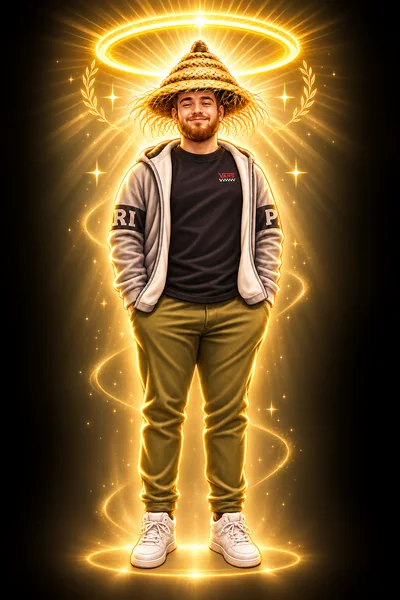
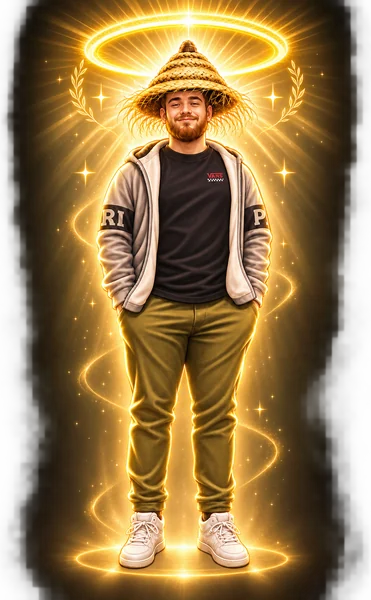
Corri Marf!: Gian trasparente e super canna x2/x3 (#77)
* Corri Marf!: immagini di Gian con la trasparenza

Claude-Session: https://claude.ai/code/session_017AfdJjPRYm7AhKZz7XGFBU

* Corri Marf!: anche la super canna fa x2/x3 con bifase e trifase

Claude-Session: https://claude.ai/code/session_017AfdJjPRYm7AhKZz7XGFBU

* Corri Marf!: l'immagine nella scheda dello shop non viene più tagliata

Claude-Session: https://claude.ai/code/session_017AfdJjPRYm7AhKZz7XGFBU

---------

diff --git a/giochi/corri-marf/index.html b/giochi/corri-marf/index.html
@@ -87,7 +87,8 @@
     #market.aperta .scheda { opacity: 1; transform: none; pointer-events: auto; }
     .scheda .foto { flex: 1; min-height: 0; display: grid; place-items: center; background: radial-gradient(circle at 50% 55%, rgba(228,179,60,.16), transparent 65%);
       box-shadow: inset 0 0 0 1px rgba(255,255,255,.08); clip-path: polygon(10px 0, 100% 0, 100% calc(100% - 10px), calc(100% - 10px) 100%, 0 100%, 0 10px); background-color: rgba(9,9,11,.55); }
-    .scheda .foto img { max-width: 82%; max-height: 82%; object-fit: contain; filter: drop-shadow(0 6px 10px rgba(0,0,0,.5)); }
+    .scheda .foto { position: relative; }
+    .scheda .foto img { position: absolute; left: 6%; top: 6%; width: 88%; height: 88%; object-fit: contain; filter: drop-shadow(0 6px 10px rgba(0,0,0,.5)); }
     .scheda .foto img.futuro { opacity: .35; filter: grayscale(1); }
     .scheda .foto .manca { font-family: var(--mono); font-size: .7em; color: var(--muted); text-align: center; padding: 1em; }
     .scheda h3 { font-family: var(--display); font-style: italic; font-weight: 700; font-size: 1.35em; line-height: 1; color: var(--gold); text-transform: uppercase; }
@@ -1519,7 +1520,7 @@
     g.munizioni--; g.anim.lancio = 0.22;
     if (sup) { g.super = 0; g.scuoti = Math.max(g.scuoti, 0.2); }
     g.lanci.push({ x: MARF_X + 22, y: manoY(), vx: 900 + 500 * k, k: k, sup: sup,
-      danno: sup ? g.boss.hpMax * DANNO_SUPER : (DANNO_MIN + (DANNO_MAX - DANNO_MIN) * k) * (g.valCanna || 1) });   // bifase x2, trifase x3
+      danno: (sup ? g.boss.hpMax * DANNO_SUPER : DANNO_MIN + (DANNO_MAX - DANNO_MIN) * k) * (g.valCanna || 1) });   // bifase x2, trifase x3 (anche la super)
     if (sup) { fx('whoosh', 0.7, 0.7); fx('potere', 0.4); }
     else fx('swish', 0.45 + 0.25 * k, 1.25 - 0.35 * k);
   }
